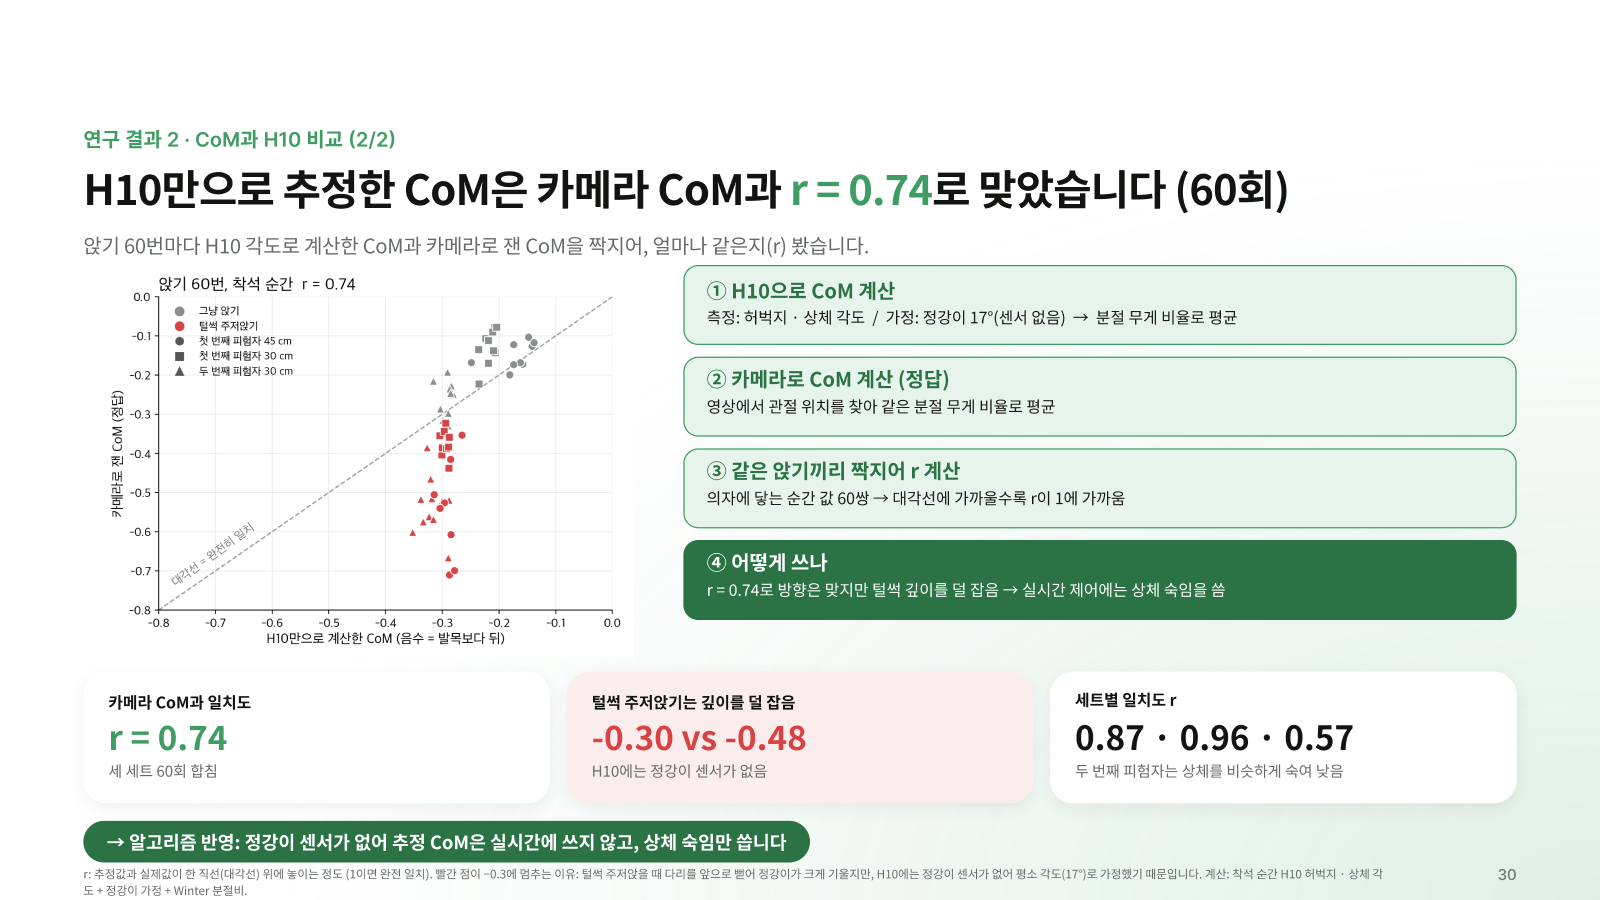
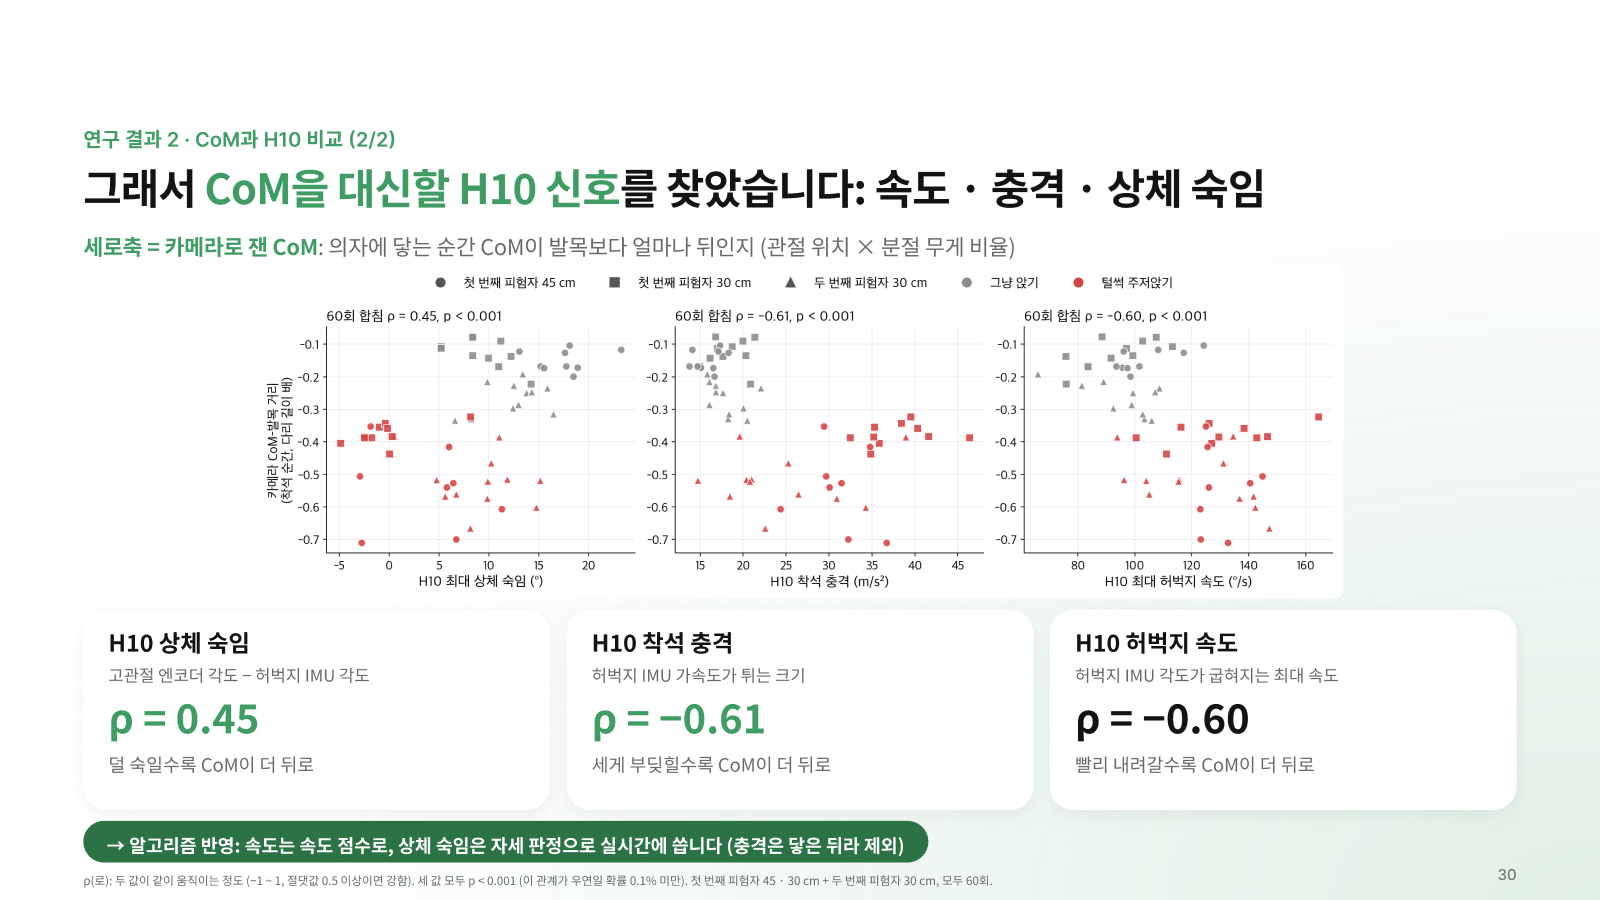
Swap slides 29 and 30: compute H10 CoM first, then find signals that follow CoM

diff --git a/presentation/발표_대본.md b/presentation/발표_대본.md
@@ -89,8 +89,23 @@ CoM은 이렇게 구했습니다. 카메라를 옆에 고정해 전신을 찍고
 
 > 참고 (질문 받으면): '평소 최대 깊이'는 45 cm 평소 착석 각도의 평균에 표준편차의 2배(2SD)를 더한 69.4°입니다. 평소 착석의 약 95%가 이 안에 들어옵니다. 이 기준으로 낮은 의자를 몇 번 알아봤는지는 36번 보조 결과에서 보여 드립니다.
 
-**[29] 연구 결과 2-1: H10 신호는 CoM을 따라갔습니다**
-이 장은 H10이 그대로 잰 값 중 무엇이 CoM과 같이 움직이는지 본 것입니다.
+**[29] 연구 결과 2-1: H10 각도로 계산한 CoM**
+이번에는 12번에서 던진 질문, H10 값으로 CoM 자체를 만들 수 있는지 확인했습니다. 오른쪽 순서대로 설명드리겠습니다.
+
+① H10으로 CoM을 계산했습니다. H10이 재는 허벅지와 상체 각도는 그대로 쓰고, 센서가 없는 정강이는 평소 각도인 17°로 가정했습니다. 그리고 24번에서 말씀드린 분절 무게 비율로 평균했습니다.
+② 같은 앉기를 카메라로 찍어 진짜 CoM을 계산했습니다. 이게 정답입니다.
+③ 의자에 닿는 순간의 두 값을 앉기 60번 짝지어 r을 계산했습니다. r은 두 값이 얼마나 같은지입니다. 왼쪽 그래프에서 점이 대각선 위에 모두 놓이면 r = 1, 완전히 일치하는 것입니다.
+④ 결과는 r = 0.74로, 방향은 꽤 잘 맞았습니다. 그런데 빨간 점, 털썩 주저앉기를 보시면 가로로는 −0.3 근처에서 멈추고 세로로만 길게 퍼져 있습니다. 실제 CoM은 −0.48까지 뒤로 빠졌는데 H10 계산은 −0.30에서 더 내려가지 못한 것입니다. 털썩 주저앉을 때는 다리를 앞으로 쭉 뻗어 정강이가 크게 기우는데, 저희는 정강이를 평소 각도로 가정했기 때문입니다.
+
+그래서 CoM을 직접 계산하는 대신, H10이 재는 값 중 CoM을 따라가는 신호를 하나씩 찾아봤습니다.
+
+> 참고 (질문 받으면)
+> - **ρ와 r의 차이:** ρ는 크기 순서만 보는 상관이라 같은 방향인지를 봅니다. r은 값 자체가 한 직선 위에 놓이는지를 봅니다. 추정 CoM은 카메라 CoM과 값이 같아야 해서 r을 썼습니다.
+> - **세트별 r:** 0.87, 0.96, 0.57. 두 번째 피험자는 털썩 주저앉을 때도 상체를 비슷하게 숙인 채 다리만 뻗어서 낮았습니다.
+> - **개선 방법:** 정강이 각도를 카메라 값으로 넣으면 첫 번째 세트에서 r = 0.99까지 올라갔습니다. 정강이에 IMU를 하나 더 달면 H10만으로도 CoM을 잴 수 있다고 봅니다.
+
+**[30] 연구 결과 2-2: CoM을 대신할 H10 신호**
+그래서 이번에는 계산 없이, H10이 그대로 잰 값 중 무엇이 CoM과 같이 움직이는지 하나씩 봤습니다.
 
 세로축은 카메라로 잰 CoM입니다. 앞에서 말씀드린 대로 관절 위치에 분절 무게 비율을 곱해 평균했고, 의자에 닿는 순간 CoM이 발목보다 얼마나 뒤에 있었는지를 씁니다. 아래로 갈수록 더 뒤로 빠진 것입니다.
 
@@ -108,21 +123,6 @@ CoM은 이렇게 구했습니다. 카메라를 옆에 고정해 전신을 찍고
 > - **그래도 의미 있다고 보는 이유:** 60번에서 이 관계가 우연히 나올 확률은 0.0003입니다. 다만 약한 관계라 속도 점수와 함께 씁니다.
 > - **세트별 값:** 충격 −0.63 ~ −0.75, 속도 −0.54 ~ −0.73으로 세 세트 모두에서 같은 방향이었습니다.
 > - **한계:** 이 관계는 주로 '그냥 앉기냐, 털썩 주저앉기냐'를 가르는 데서 나옵니다. 같은 방식 안에서 세밀하게 맞추지는 못했습니다.
-
-**[30] 연구 결과 2-2: H10만으로 추정한 CoM**
-이번에는 12번에서 던진 질문, H10 값으로 CoM 자체를 만들 수 있는지 확인했습니다. 오른쪽 순서대로 설명드리겠습니다.
-
-① H10으로 CoM을 계산했습니다. H10이 재는 허벅지와 상체 각도는 그대로 쓰고, 센서가 없는 정강이는 평소 각도인 17°로 가정했습니다. 그리고 24번에서 말씀드린 분절 무게 비율로 평균했습니다.
-② 같은 앉기를 카메라로 찍어 진짜 CoM을 계산했습니다. 이게 정답입니다.
-③ 의자에 닿는 순간의 두 값을 앉기 60번 짝지어 r을 계산했습니다. r은 두 값이 얼마나 같은지입니다. 왼쪽 그래프에서 점이 대각선 위에 모두 놓이면 r = 1, 완전히 일치하는 것입니다.
-④ 결과는 r = 0.74로, 방향은 꽤 잘 맞았습니다. 그런데 빨간 점, 털썩 주저앉기를 보시면 가로로는 −0.3 근처에서 멈추고 세로로만 길게 퍼져 있습니다. 실제 CoM은 −0.48까지 뒤로 빠졌는데 H10 계산은 −0.30에서 더 내려가지 못한 것입니다. 털썩 주저앉을 때는 다리를 앞으로 쭉 뻗어 정강이가 크게 기우는데, 저희는 정강이를 평소 각도로 가정했기 때문입니다.
-
-그래서 추정 CoM은 실시간 제어에 쓰지 않고, CoM을 따라간 상체 숙임을 씁니다.
-
-> 참고 (질문 받으면)
-> - **ρ와 r의 차이:** ρ는 크기 순서만 보는 상관이라 같은 방향인지를 봅니다. r은 값 자체가 한 직선 위에 놓이는지를 봅니다. 추정 CoM은 카메라 CoM과 값이 같아야 해서 r을 썼습니다.
-> - **세트별 r:** 0.87, 0.96, 0.57. 두 번째 피험자는 털썩 주저앉을 때도 상체를 비슷하게 숙인 채 다리만 뻗어서 낮았습니다.
-> - **개선 방법:** 정강이 각도를 카메라 값으로 넣으면 첫 번째 세트에서 r = 0.99까지 올라갔습니다. 정강이에 IMU를 하나 더 달면 H10만으로도 CoM을 잴 수 있다고 봅니다.
 
 **[31] 연구 결과 3: 착석 전에 알아채나** (8:00)
 가장 중요한 결과입니다. 평소 착석 9회로 기준을 만들고, 같은 사람의 털썩 주저앉기 11회에 알고리즘을 다시 돌렸습니다.

diff --git a/presentation/발표_흐름.md b/presentation/발표_흐름.md
@@ -38,8 +38,8 @@ Figma Slides: https://www.figma.com/slides/4tZDoTD6FXxpx83Z0kraKR
 | 26 | 간지 PART 04 | 연구 결과 | 낮은 의자 · CoM과 H10 비교 · 착석 전 판정 |
 | 27 | 연구 결과 · OVERVIEW | 세 가지 질문으로 연구 결과를 정리했습니다 | ① 허벅지 10.7° 더 굽혀짐 ② 60회: 충격 · 속도 ρ ≈ −0.6, H10 추정 CoM r 0.74 ③ 착석 1초 전 판정 성공 |
 | 28 | 연구 결과 1 · 낮은 의자 | 낮은 의자에서는 허벅지를 10.7° 더 굽혀 앉았지만, 상체는 더 숙이지 않았습니다 | 카드 2개(+10.7°, 상체 숙임 11.1 → 10.7). 30/30 판정은 36번 보조 결과로 옮김. → 반영: 평소 깊이를 넘으면 낮은 의자, 제동 × 1.5 |
-| 29 | 연구 결과 2 (1/2) | 세 세트 60회를 합쳐도 H10 신호는 카메라 CoM 변화를 따라갔습니다 | 첫 번째 피험자 45 · 30 cm + 두 번째 피험자 30 cm. 상체 숙임 ρ 0.45(첫 번째 0.72, 두 번째 0.40) · 충격 −0.61 · 최대 속도 −0.60. 재현: `pool_com_h10.py` |
-| 30 | 연구 결과 2 (2/2) | H10만으로 추정한 CoM은 카메라 CoM과 r = 0.74로 맞았습니다 (60회) | 세트별 0.87 · 0.96 · 0.57, 털썩 깊이 덜 잡음(−0.30 vs −0.48) |
+| 29 | 연구 결과 2 (1/2) | H10 각도로 계산한 CoM은 방향은 맞았지만(r = 0.74), 털썩 깊이를 놓쳤습니다 | ① H10으로 CoM 계산(허벅지 · 상체 측정, 정강이 17° 가정) ② 카메라 CoM ③ 60쌍 r ④ 깊이를 덜 잡음 → CoM을 따라가는 신호를 찾음 |
+| 30 | 연구 결과 2 (2/2) | 그래서 CoM을 대신할 H10 신호를 찾았습니다: 속도 · 충격 · 상체 숙임 | 세로축 카메라 CoM, 카드: 상체 숙임(엔코더 − 허벅지 IMU) ρ 0.45 · 충격(허벅지 IMU 가속도) −0.61 · 속도(허벅지 굽힘 속도) −0.60. 재현: `pool_com_h10.py` |
 | 31 | 연구 결과 3 | H10은 털썩 주저앉기를 착석 약 1초 전에 알아챘습니다 | 11/11, 중앙값 1.0초, 오판정 1/9, 제동은 닿기 전 0/11. → 반영: 판정 즉시 제동 연결 (2차 실측에서 확인) |
 | 32 | 간지 PART 05 | 보조 알고리즘과 결과 | |
 | 33 | 2차 보조 알고리즘 · 개선 내용 | 연구 결과로 1차 보조 알고리즘을 이렇게 개선했습니다 | 개인 기준 → z > 3.5 제동 / 낮은 의자 × 1.5 / 상체 덜 숙임 × 1.5 / 판정 즉시 제동 |
